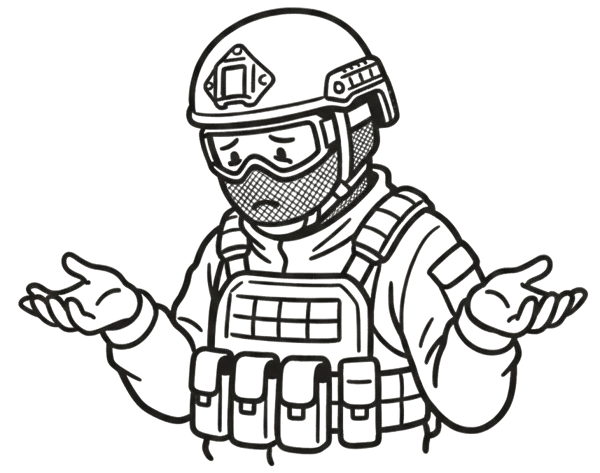
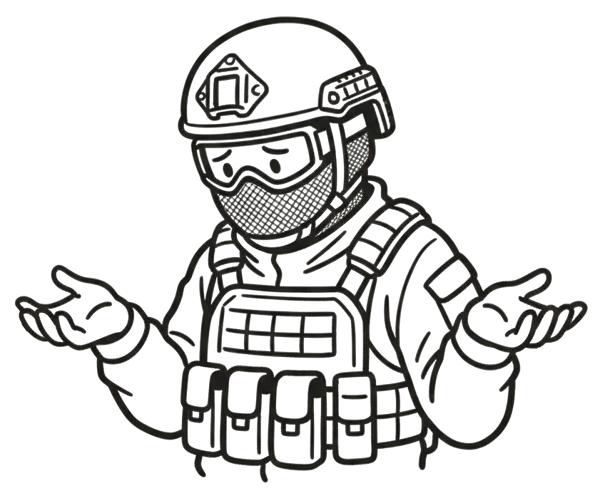
feat: some state images and a fix for legacy event pages

Changed region(s): [[0.03, 0.0, 0.99, 0.9767]]

diff --git a/apps/web/src/components/map-editor/map-data.ts b/apps/web/src/components/map-editor/map-data.ts
@@ -1,8 +1,88 @@
-import type { BBox, Feature, FeatureCollection, Geometry } from "geojson";
+import type { BBox, Feature, FeatureCollection, Geometry, LineString, Point, Polygon } from "geojson";
 
 import { DEFAULT_GRID, EMPTY_FEATURE_COLLECTION, MAP_DEFAULT_STYLE } from "@/components/map-editor/constants";
-import { featuresToCollection } from "@/components/map-editor/geometry";
-import type { MapEditorSnapshot, MapFeature, MapPlayArea } from "@/components/map-editor/types";
+import type {
+	LngLatTuple,
+	MapEditorSnapshot,
+	MapFeature,
+	MapGeometry,
+	MapPlayArea,
+} from "@/components/map-editor/types";
+
+const rectangleRing = (start: LngLatTuple, end: LngLatTuple): LngLatTuple[] => {
+	const minLng = Math.min(start[0], end[0]);
+	const maxLng = Math.max(start[0], end[0]);
+	const minLat = Math.min(start[1], end[1]);
+	const maxLat = Math.max(start[1], end[1]);
+	return [
+		[minLng, minLat],
+		[maxLng, minLat],
+		[maxLng, maxLat],
+		[minLng, maxLat],
+		[minLng, minLat],
+	];
+};
+
+const geometryToGeoJSON = (geometry: MapGeometry): Point | LineString | Polygon => {
+	if (geometry.type === "Point") {
+		return { type: "Point", coordinates: geometry.coordinates };
+	}
+	if (geometry.type === "LineString") {
+		return { type: "LineString", coordinates: geometry.coordinates };
+	}
+	if (geometry.type === "Polygon") {
+		return { type: "Polygon", coordinates: geometry.coordinates };
+	}
+	if (geometry.type === "Rectangle") {
+		return { type: "Polygon", coordinates: [rectangleRing(geometry.start, geometry.end)] };
+	}
+	if (geometry.type === "Circle") {
+		return { type: "Polygon", coordinates: [[]] };
+	}
+	if (geometry.type === "Freehand" && geometry.closed) {
+		const coords = [...geometry.coordinates];
+		if (coords.length > 0) {
+			const first = coords[0];
+			const last = coords[coords.length - 1];
+			if (first && last && (first[0] !== last[0] || first[1] !== last[1])) {
+				coords.push([first[0], first[1]]);
+			}
+		}
+		return { type: "Polygon", coordinates: [coords] };
+	}
+	return { type: "LineString", coordinates: geometry.coordinates };
+};
+
+const featureToGeoJSON = (feature: MapFeature): Feature => {
+	const geometry = geometryToGeoJSON(feature.geometry);
+	return {
+		type: "Feature",
+		geometry,
+		properties: {
+			id: feature.id,
+			kind: feature.kind,
+			strokeColor: feature.style.strokeColor,
+			strokeWidth: feature.style.strokeWidth,
+			fillColor: feature.style.fillColor,
+			fillOpacity: feature.style.fillOpacity,
+			label: feature.label || "",
+			iconName: feature.iconName || "",
+			iconBackground: feature.iconBackground || true,
+			iconSize: feature.iconSize || 22,
+		},
+	};
+};
+
+const featuresToCollection = (features: MapFeature[]): FeatureCollection => {
+	const items: Feature[] = [];
+	for (const feature of features) {
+		items.push(featureToGeoJSON(feature));
+	}
+	return {
+		type: "FeatureCollection",
+		features: items,
+	};
+};
 
 const cloneBbox = (bbox: FeatureCollection["bbox"]): BBox | undefined => {
 	if (!bbox) {

diff --git a/apps/web/src/components/overviews/reviews/reviews-overview-client.tsx b/apps/web/src/components/overviews/reviews/reviews-overview-client.tsx
@@ -1,7 +1,9 @@
 "use client";
 
+import LeaveReview from "@public/errors/leave-review.png";
 import { format } from "date-fns";
 import { Star } from "lucide-react";
+import Image from "next/image";
 import { useExtracted } from "next-intl";
 import { useState } from "react";
 import { ReviewModal } from "@/components/overviews/reviews/review-modal";
@@ -250,17 +252,14 @@ export function ReviewsOverviewClient({
 								))}
 
 								{reviews.length === 0 && (
-									<div className="text-center py-8">
-										<p className="text-muted-foreground">{t("No reviews yet")}</p>
-										{user && !isReviewDisabled && (
-											<Button
-												variant="link"
-												className="mt-2"
-												onClick={() => setIsReviewModalOpen(true)}
-											>
-												{t("Be the first to write a review")}
-											</Button>
-										)}
+									<div className="text-center py-8 flex flex-col items-center justify-center">
+										<Image
+											src={LeaveReview}
+											alt="No reviews"
+											draggable={false}
+											className="w-full max-w-[300px] dark:invert"
+										/>
+										<p className="mt-4 text-muted-foreground">{t("No reviews yet")}</p>
 									</div>
 								)}
 							</div>
@@ -288,20 +287,17 @@ export function ReviewsOverviewClient({
 				) : (
 					<CardContent className="p-12">
 						<div className="text-center space-y-4">
-							<div className="mx-auto w-16 h-16 rounded-full bg-muted flex items-center justify-center">
-								<Star className="h-8 w-8 text-muted-foreground" />
-							</div>
+							<Image
+								src={LeaveReview}
+								alt="No reviews"
+								draggable={false}
+								className="w-full max-w-[300px] mx-auto dark:invert"
+							/>
 							<div>
 								<h3 className="font-semibold text-lg mb-2">{t("No reviews yet")}</h3>
-								<p className="text-sm text-muted-foreground mb-4">
+								<p className="text-sm text-muted-foreground">
 									{t("Be the first to share your experience")}
 								</p>
-								{user && !isReviewDisabled && (
-									<Button onClick={() => setIsReviewModalOpen(true)}>
-										<Star className="h-4 w-4 mr-2" />
-										{t("Write the First Review")}
-									</Button>
-								)}
 							</div>
 						</div>
 					</CardContent>

diff --git a/apps/web/src/components/generic-data-table.tsx b/apps/web/src/components/generic-data-table.tsx
@@ -1,7 +1,9 @@
 "use client";
 
+import NoResults from "@public/errors/no-results.png";
 import { format } from "date-fns";
 import { ArrowDownUp, ArrowDownZA, ArrowUpAZ, MoreHorizontal, Search, X } from "lucide-react";
+import Image from "next/image";
 import { useExtracted, useLocale } from "next-intl";
 import { useQueryState } from "nuqs";
 import type { ChangeEvent, ReactNode } from "react";
@@ -480,8 +482,16 @@ export function GenericDataTable<T>({
 						<TableBody>
 							{data.length === 0 ? (
 								<TableRow>
-									<TableCell colSpan={visibleColumnsArray.length} className="text-center h-24">
-										{t("No data found")}
+									<TableCell colSpan={visibleColumnsArray.length} className="text-center">
+										<div className="flex flex-col items-center justify-center py-8">
+											<Image
+												src={NoResults}
+												alt="No results"
+												draggable={false}
+												className="w-full max-w-[300px] dark:invert"
+											/>
+											<p className="mt-4 text-muted-foreground">{t("No data found")}</p>
+										</div>
 									</TableCell>
 								</TableRow>
 							) : (
@@ -520,7 +530,15 @@ export function GenericDataTable<T>({
 			{/* Mobile Cards */}
 			<div className="space-y-4 md:hidden">
 				{data.length === 0 ? (
-					<div className="text-center py-8 text-muted-foreground">{t("No data found")}</div>
+					<div className="text-center py-8 flex flex-col items-center justify-center">
+						<Image
+							src={NoResults}
+							alt="No results"
+							draggable={false}
+							className="w-full max-w-[300px] dark:invert"
+						/>
+						<p className="mt-4 text-muted-foreground">{t("No data found")}</p>
+					</div>
 				) : (
 					data.map((item, idx) => (
 						<div

diff --git a/apps/web/src/app/[locale]/(public)/search/_components/search-results.tsx b/apps/web/src/app/[locale]/(public)/search/_components/search-results.tsx
@@ -1,6 +1,8 @@
 "use client";
 
+import NoResults from "@public/errors/no-results.png";
 import { useInfiniteQuery } from "@tanstack/react-query";
+import Image from "next/image";
 import { useExtracted } from "next-intl";
 import { parseAsBoolean, useQueryState } from "nuqs";
 import { useEffect, useMemo, useRef } from "react";
@@ -112,8 +114,14 @@ export function SearchResults() {
 				) : error ? (
 					<div className="text-center text-destructive py-12">{t("Error loading search results")}</div>
 				) : allItems.length === 0 ? (
-					<div className="text-center text-muted-foreground py-12">
-						{t("Nothing was found matching that search")}
+					<div className="text-center text-muted-foreground py-12 flex flex-col items-center justify-center">
+						<Image
+							src={NoResults}
+							alt="No results"
+							draggable={false}
+							className="w-full max-w-[400px] dark:invert"
+						/>
+						<p className="mt-4">{t("Nothing was found matching that search")}</p>
 					</div>
 				) : (
 					<>

diff --git a/apps/web/src/app/[locale]/(public)/clubs/_components/clubs-listing.tsx b/apps/web/src/app/[locale]/(public)/clubs/_components/clubs-listing.tsx
@@ -1,6 +1,8 @@
 "use client";
 
+import NoResults from "@public/errors/no-results.png";
 import { useQuery } from "@tanstack/react-query";
+import Image from "next/image";
 import { useExtracted } from "next-intl";
 import { parseAsInteger, useQueryState } from "nuqs";
 import { SearchResultCard } from "@/app/[locale]/(public)/search/_components/search-result-card";
@@ -64,8 +66,14 @@ export function ClubsListing({ initialData }: ClubsListingProps) {
 						))}
 					</div>
 				) : clubs.length === 0 ? (
-					<div className="text-center py-12 text-muted-foreground">
-						<p>{t("No clubs found")}</p>
+					<div className="text-center py-12 flex flex-col items-center justify-center">
+						<Image
+							src={NoResults}
+							alt="No results"
+							draggable={false}
+							className="w-full max-w-[400px] dark:invert"
+						/>
+						<p className="mt-4 text-muted-foreground">{t("No clubs found")}</p>
 					</div>
 				) : (
 					<div className="grid grid-cols-1 md:grid-cols-2 lg:grid-cols-3 gap-4">

diff --git a/apps/web/src/app/[locale]/(public)/users/_components/users-listing.tsx b/apps/web/src/app/[locale]/(public)/users/_components/users-listing.tsx
@@ -1,6 +1,8 @@
 "use client";
 
+import NoResults from "@public/errors/no-results.png";
 import { useQuery } from "@tanstack/react-query";
+import Image from "next/image";
 import { useExtracted } from "next-intl";
 import { parseAsInteger, useQueryState } from "nuqs";
 import { SearchResultCard } from "@/app/[locale]/(public)/search/_components/search-result-card";
@@ -65,8 +67,14 @@ export function UsersListing({ initialData }: UsersListingProps) {
 						))}
 					</div>
 				) : users.length === 0 ? (
-					<div className="text-center py-12 text-muted-foreground">
-						<p>{t("No users found")}</p>
+					<div className="text-center py-12 flex flex-col items-center justify-center">
+						<Image
+							src={NoResults}
+							alt="No results"
+							draggable={false}
+							className="w-full max-w-[400px] dark:invert"
+						/>
+						<p className="mt-4 text-muted-foreground">{t("No users found")}</p>
 					</div>
 				) : (
 					<div className="grid grid-cols-1 md:grid-cols-2 lg:grid-cols-3 gap-4">

diff --git a/apps/web/src/components/overviews/reviews/reviews-overview-sheet.tsx b/apps/web/src/components/overviews/reviews/reviews-overview-sheet.tsx
@@ -1,8 +1,10 @@
 "use client";
 
+import LeaveReview from "@public/errors/leave-review.png";
 import { useQuery } from "@tanstack/react-query";
 import { format } from "date-fns";
 import { Filter, Star } from "lucide-react";
+import Image from "next/image";
 import { useExtracted } from "next-intl";
 import { parseAsInteger, useQueryState } from "nuqs";
 import { useState } from "react";
@@ -190,8 +192,13 @@ export function ReviewsOverviewSheet({
 						</div>
 					) : reviews.length === 0 ? (
 						<div className="flex flex-col items-center justify-center py-8 text-center">
-							<Star className="h-12 w-12 text-muted-foreground mb-2" />
-							<p className="text-muted-foreground">{t("No reviews yet")}</p>
+							<Image
+								src={LeaveReview}
+								alt="No reviews"
+								draggable={false}
+								className="w-full max-w-[300px] dark:invert"
+							/>
+							<p className="mt-4 text-muted-foreground">{t("No reviews yet")}</p>
 						</div>
 					) : (
 						<div className="space-y-6">

diff --git a/apps/web/src/app/[locale]/(public)/events/_components/events-listing.tsx b/apps/web/src/app/[locale]/(public)/events/_components/events-listing.tsx
@@ -1,6 +1,8 @@
 "use client";
 
+import NoResults from "@public/errors/no-results.png";
 import { useQuery } from "@tanstack/react-query";
+import Image from "next/image";
 import { useExtracted } from "next-intl";
 import { parseAsInteger, useQueryState } from "nuqs";
 import { EventCard } from "@/components/event-card";
@@ -90,8 +92,14 @@ export function EventsListing({ initialData }: EventsListingProps) {
 						))}
 					</div>
 				) : events.length === 0 ? (
-					<div className="text-center py-12 text-muted-foreground">
-						<p>{t("There are no upcoming events")}</p>
+					<div className="text-center py-12 flex flex-col items-center justify-center">
+						<Image
+							src={NoResults}
+							alt="No results"
+							draggable={false}
+							className="w-full max-w-[400px] dark:invert"
+						/>
+						<p className="mt-4 text-muted-foreground">{t("There are no upcoming events")}</p>
 					</div>
 				) : (
 					<div className="grid gap-6 md:grid-cols-2 lg:grid-cols-3">

diff --git a/apps/web/image-loader.ts b/apps/web/image-loader.ts
@@ -1,11 +1,17 @@
 import type { ImageLoaderProps } from "next/image";
 
+const normalizeSrc = (src: string) => {
+	return src.startsWith("/") ? src.slice(1) : src;
+};
+
 export default function cloudflareLoader({ src, width, quality }: ImageLoaderProps) {
-	const normalizedSrc = src.startsWith("/") ? src.slice(1) : src;
-
-	const params = [`width=${width}`, quality && `quality=${quality}`].filter(Boolean);
-
-	const base = process.env.NODE_ENV === "development" ? "https://beta.reconned.com" : "";
-
-	return `${base}/cdn-cgi/image/${params.join(",")}/${normalizedSrc}`;
+	const params = [`width=${width}`];
+	if (quality) {
+		params.push(`quality=${quality}`);
+	}
+	if (process.env.NODE_ENV === "development") {
+		const separator = src.includes("?") ? "&" : "?";
+		return `${src}${separator}${params.join("&")}`;
+	}
+	return `/cdn-cgi/image/${params.join(",")}/${normalizeSrc(src)}`;
 }
